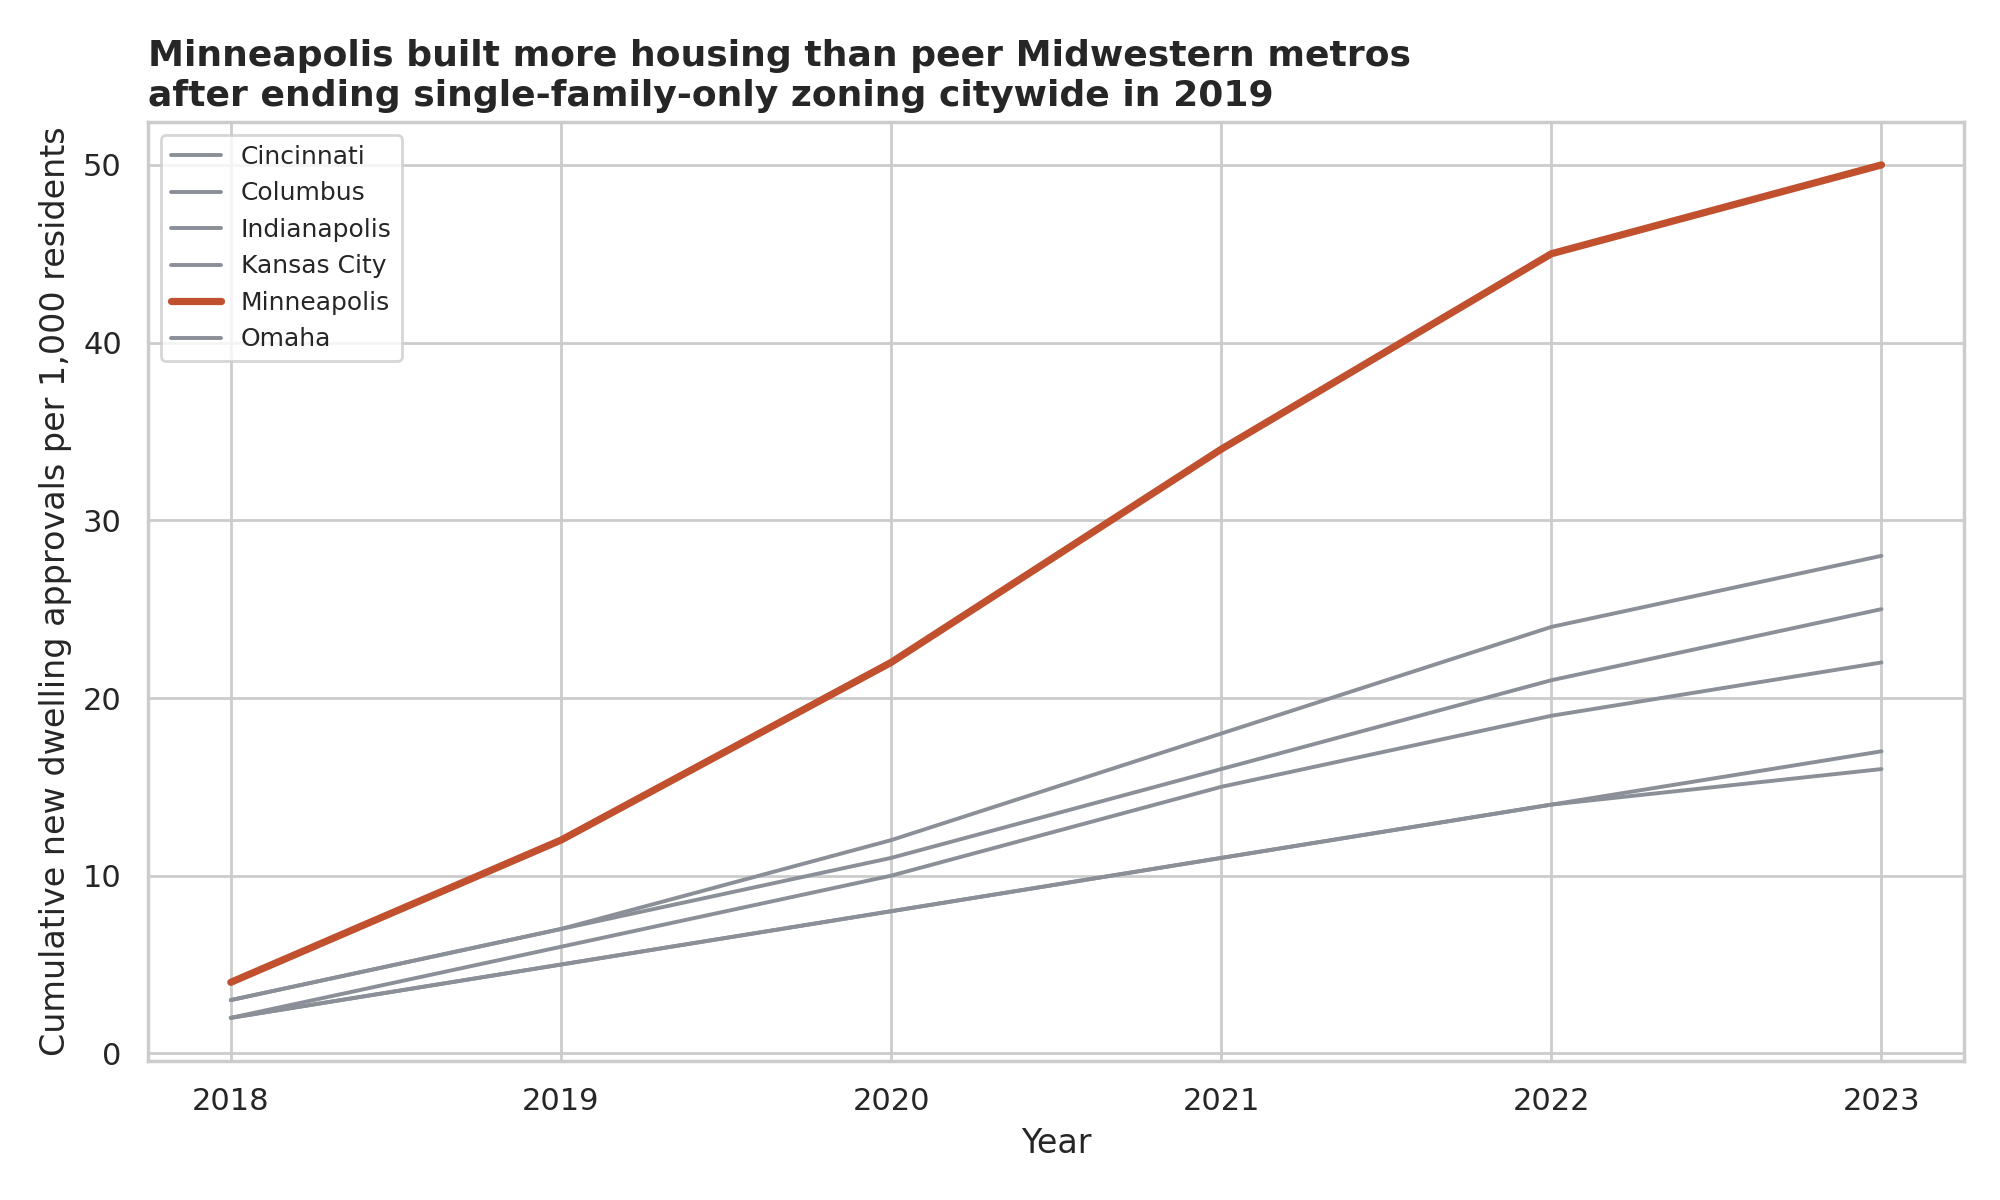
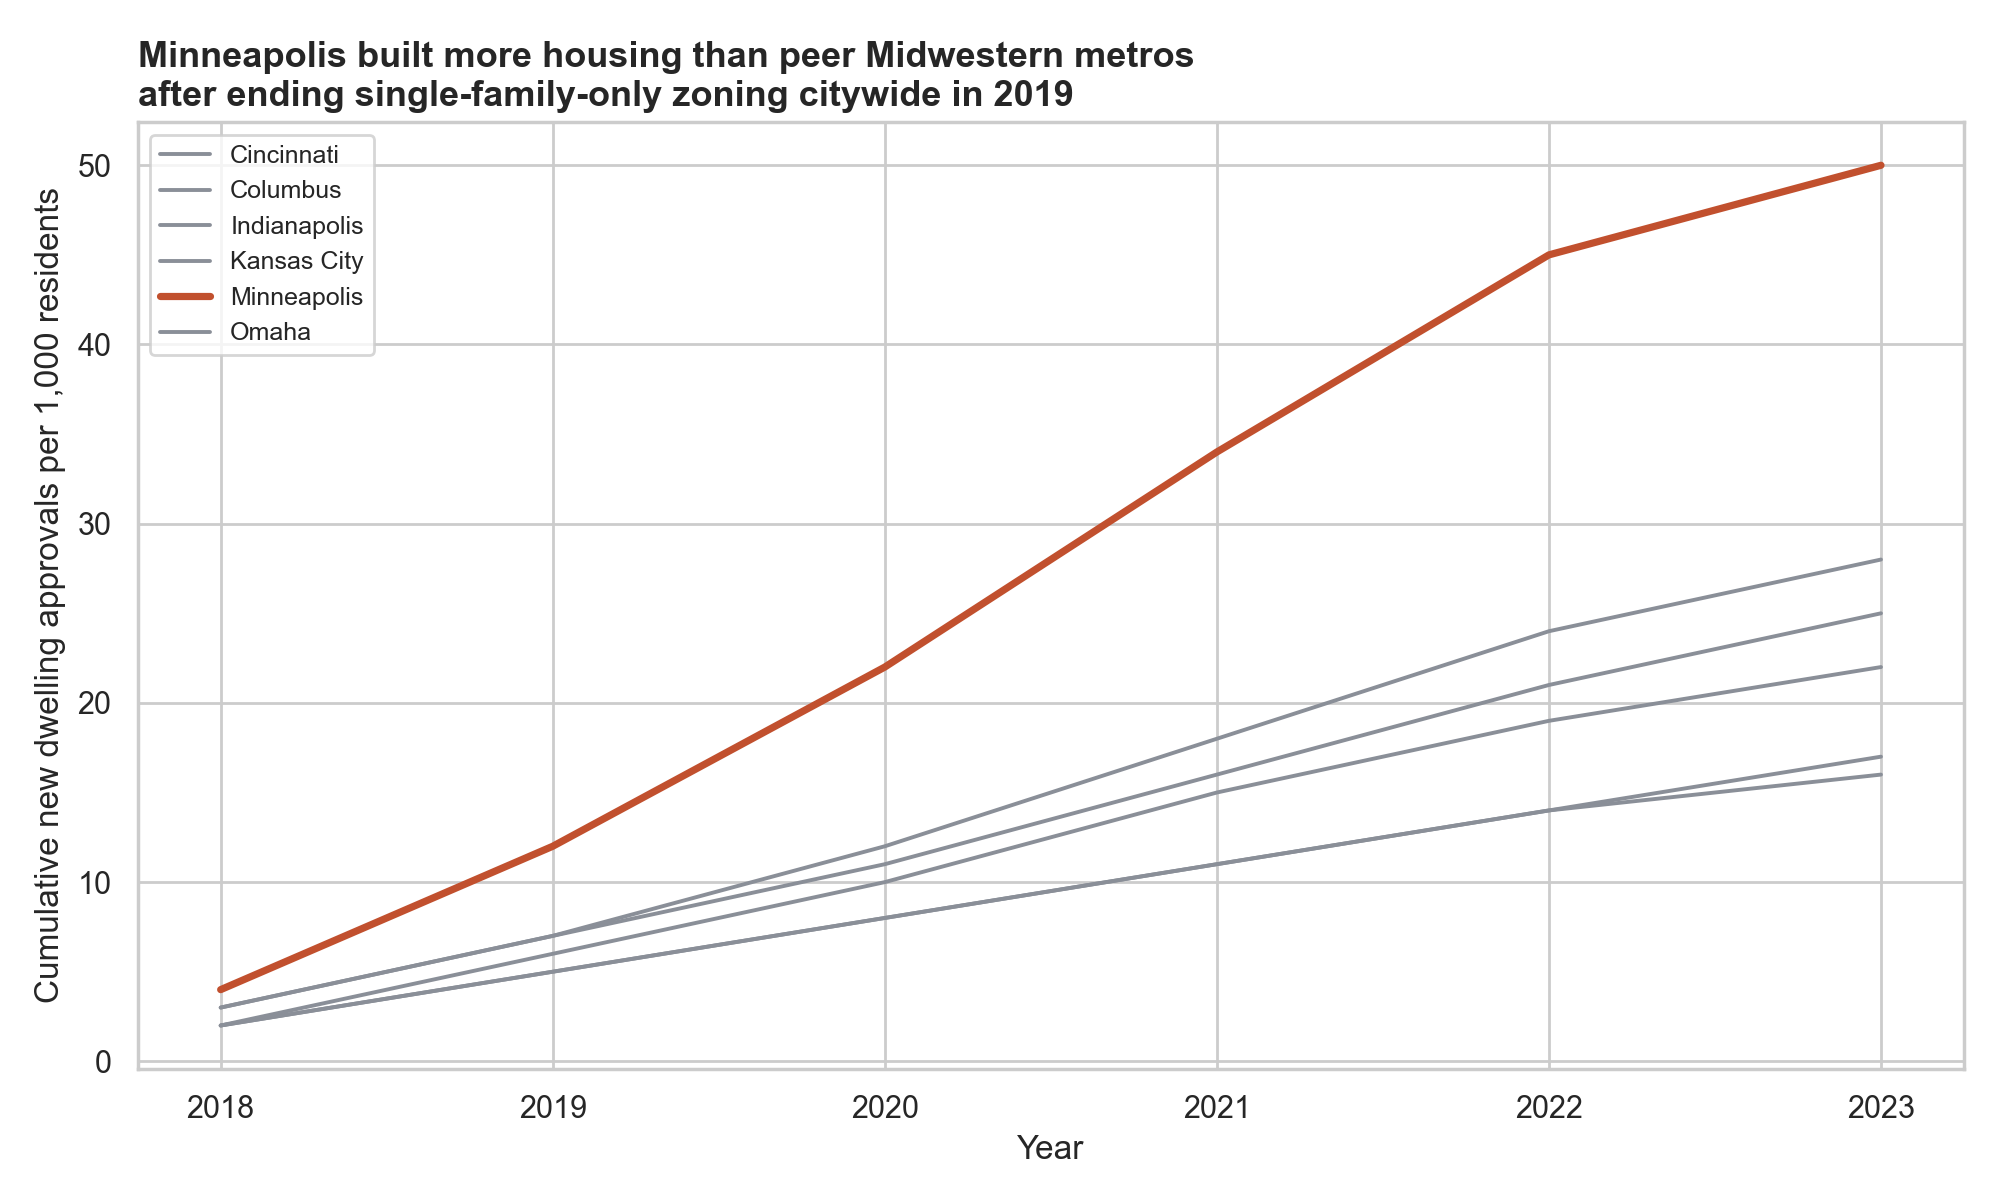
Fix data/output paths to be relative to script location
Anchor DATA_DIR and OUTPUT_DIR to the script's own directory instead
of the process working directory, so the script runs correctly no
matter where it's launched from (e.g. VS Code with a different cwd).
Regenerate output plots.

diff --git a/analysis.py b/analysis.py
@@ -35,8 +35,9 @@ import seaborn as sns
 
 sns.set_theme(style="whitegrid", font_scale=1.0)
 
-DATA_DIR = "data"
-OUTPUT_DIR = "output"
+BASE_DIR = os.path.dirname(os.path.abspath(__file__))
+DATA_DIR = os.path.join(BASE_DIR, "data")
+OUTPUT_DIR = os.path.join(BASE_DIR, "output")
 os.makedirs(OUTPUT_DIR, exist_ok=True)
 
 BLUE = "#1533C4"
